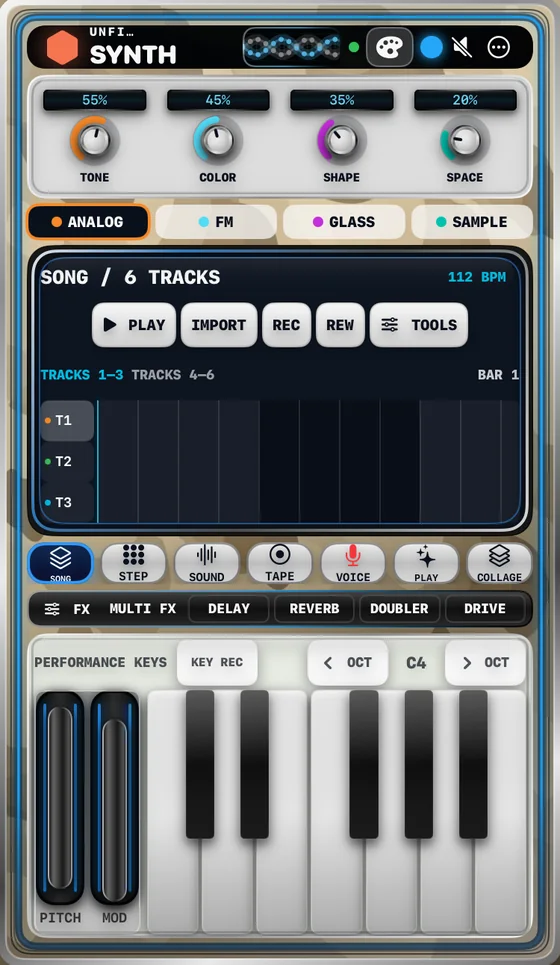
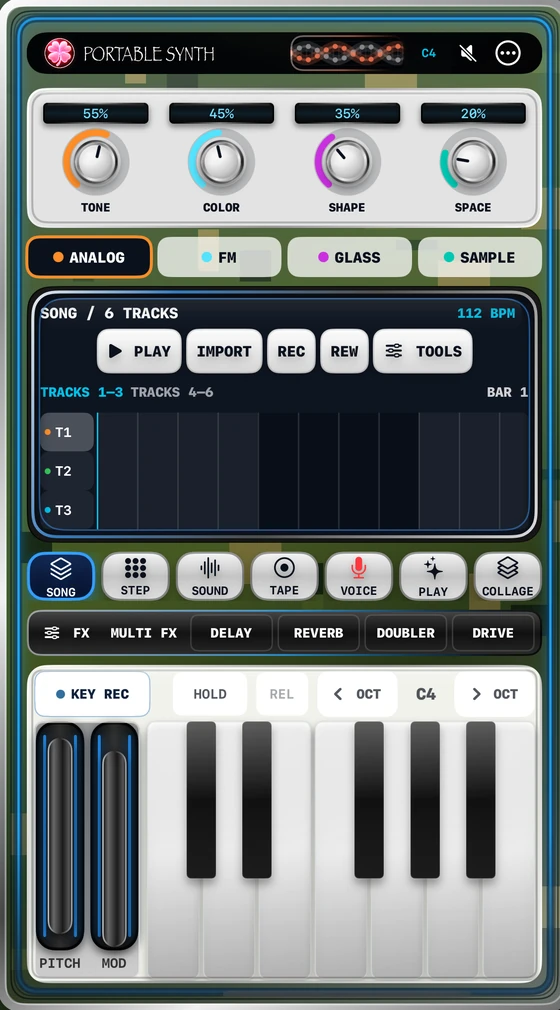
fix(synth): replace clipped iPhone preview with genuine build 90 capture

diff --git a/index.html b/index.html
@@ -4316,7 +4316,7 @@ main .uf-hero-title {
 <article class="uf-gallery-card uf-gallery-card--mobile uf-gallery-card--synth1">
 <a class="uf-gallery-media" href="/audio/#instrumentos" aria-label="Explore authentic Unfire Synthesizer 1 development captures for iPhone and iPad">
   <span class="uf-synth-devices">
-    <span class="uf-synth-device uf-synth-device--iphone"><img src="assets/products/unfire-synth-iphone.webp" width="560" height="965" alt="Real iPhone development capture of Synth I four engines, six-track timeline and performance keyboard" loading="lazy" decoding="async"></span>
+    <span class="uf-synth-device uf-synth-device--iphone"><img src="assets/products/unfire-synth-iphone.webp" width="560" height="1010" alt="Real iPhone development capture of Synth I four engines, six-track timeline and performance keyboard" loading="lazy" decoding="async"></span>
     <span class="uf-synth-device uf-synth-device--ipad"><img src="assets/products/unfire-synth-ipad.webp" width="920" height="1270" alt="Real iPad development capture of Synth I instrument controls, multitrack timeline and keyboard" loading="lazy" decoding="async"></span>
   </span>
 </a>

diff --git a/audio/index.html b/audio/index.html
@@ -576,7 +576,7 @@ footer a{color:var(--soft)}
         </div>
         <div class="stage" id="stage" role="tabpanel">
           <img class="floaty" data-shot="mac" src="img/synth-mac.webp" alt="Unfire Synthesizer for Mac 0.9.8" width="1390" height="1002" loading="lazy">
-          <div class="phone" data-shot="iphone" hidden><img src="img/synth-iphone.webp" alt="Authentic Unfire Synthesizer I iPhone development capture, not an App Store release screenshot" width="560" height="965" loading="lazy"></div>
+          <div class="phone" data-shot="iphone" hidden><img src="img/synth-iphone.webp" alt="Genuine iPhone Duo simulator capture of Portable Synth version 1.0 build 90, not an approved App Store release screenshot" width="560" height="1010" loading="lazy"></div>
           <div class="tablet" data-shot="ipad" hidden><img src="img/synth-ipad.webp" alt="Authentic Unfire Synthesizer I iPad development capture, not an App Store release screenshot" width="920" height="1270" loading="lazy"></div>
         </div>
       </div>
